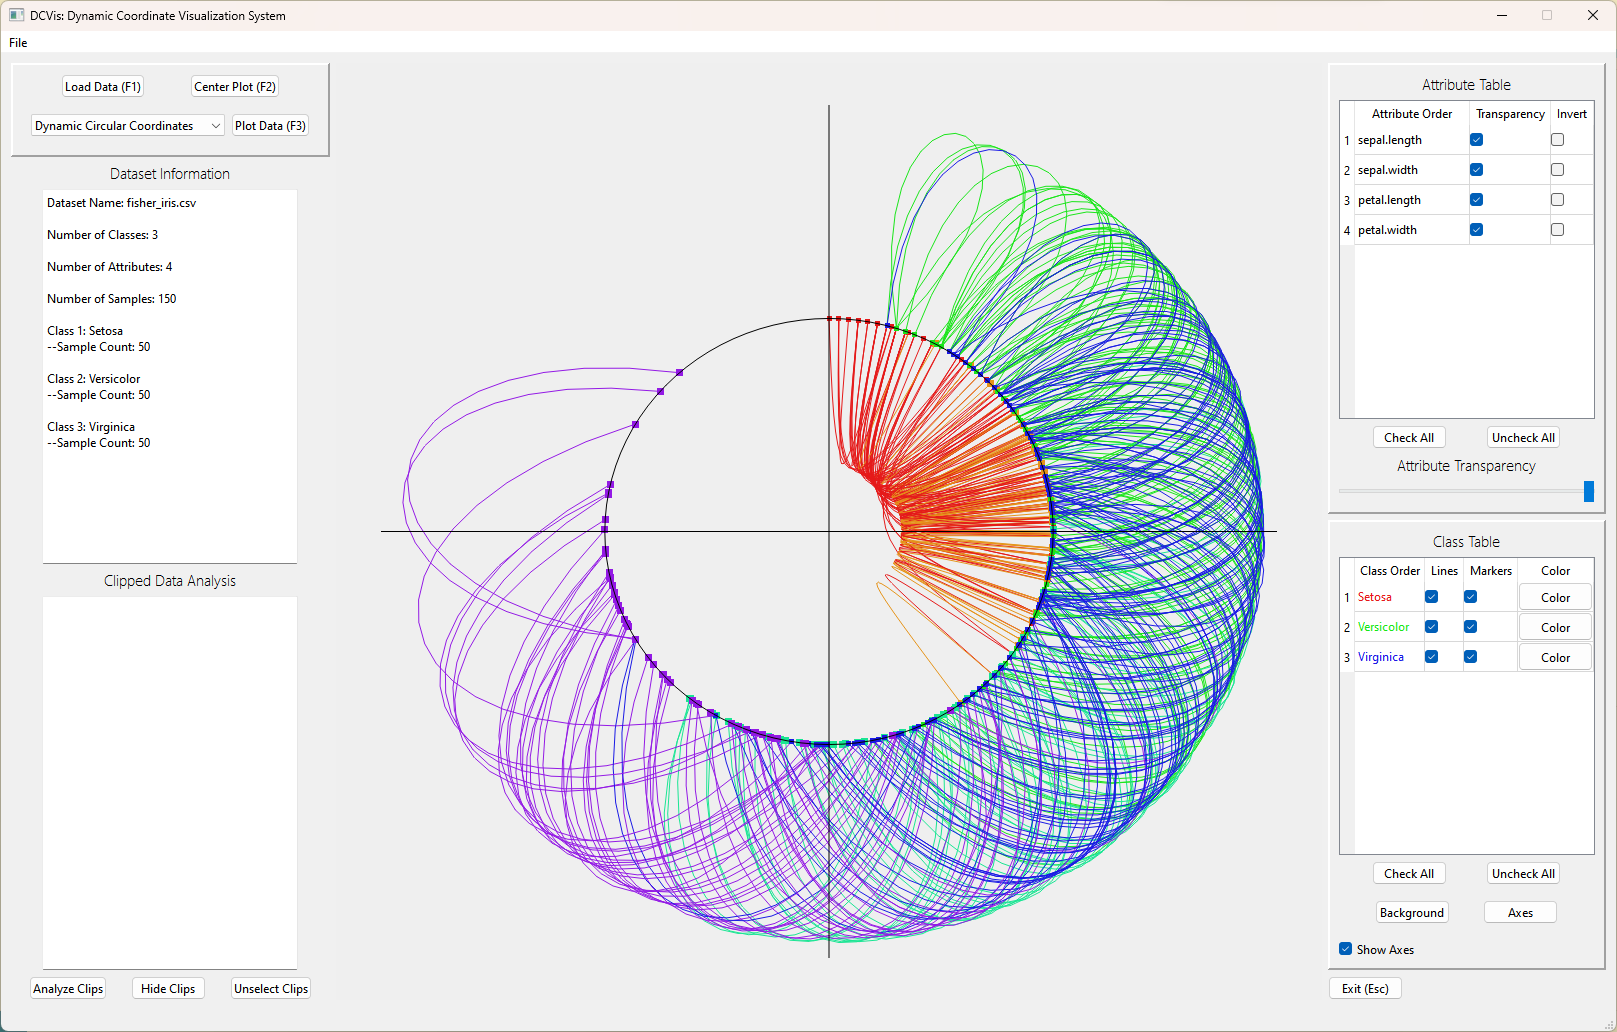
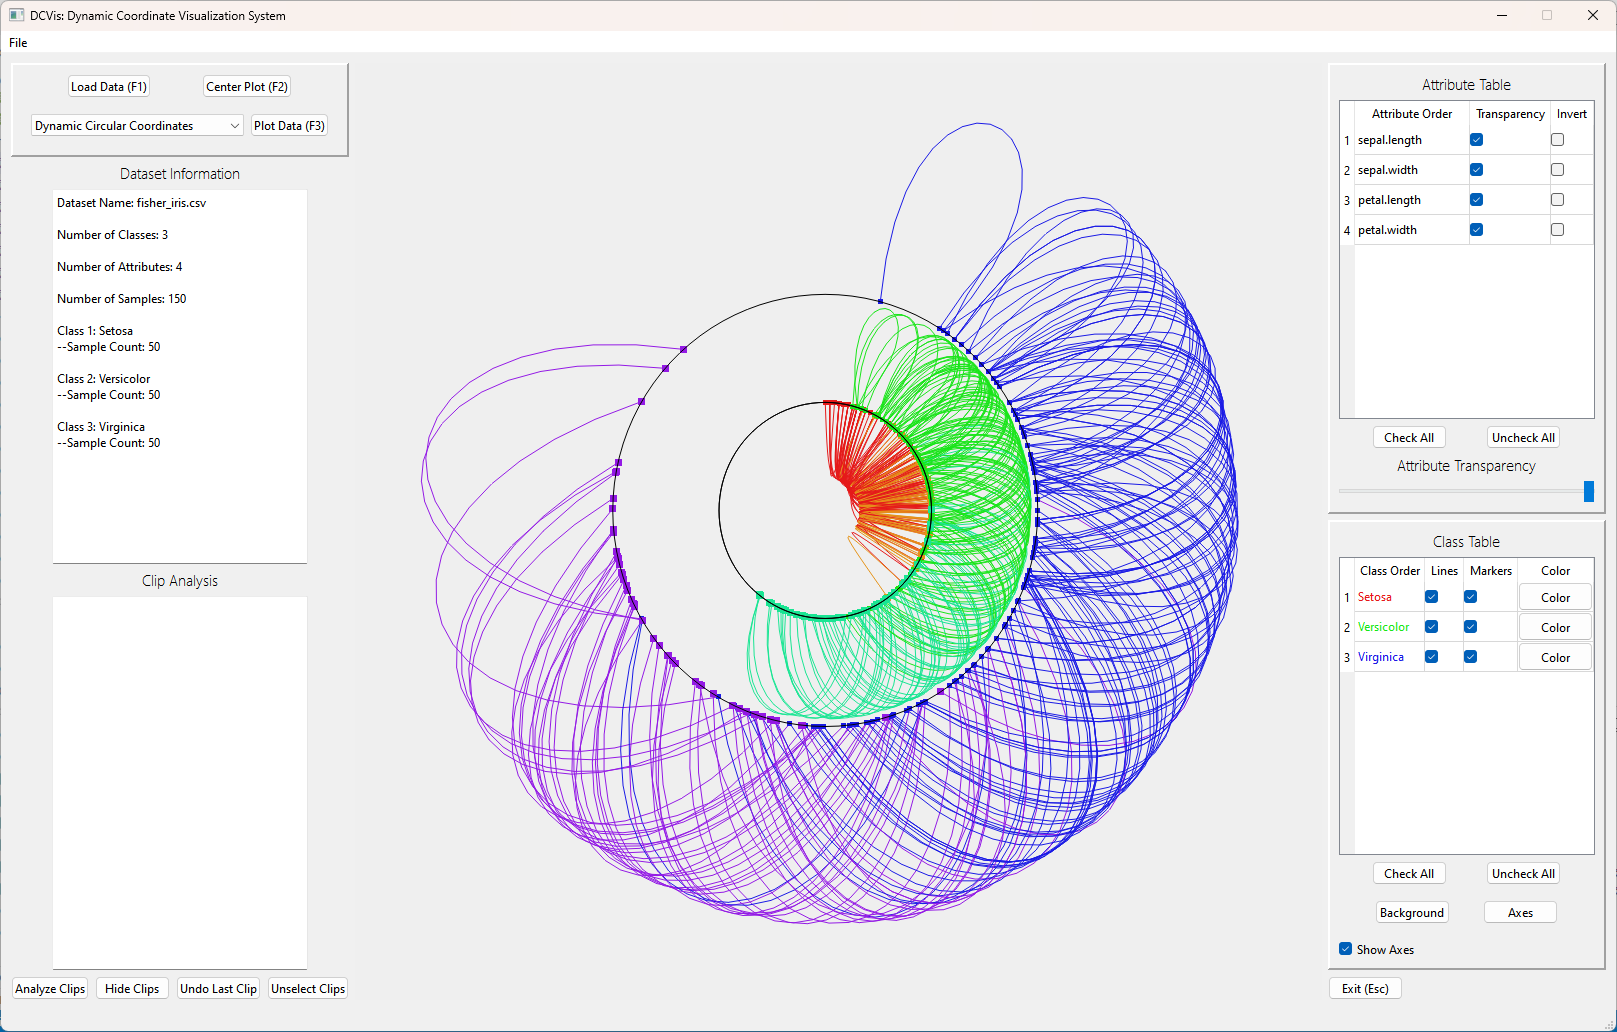
multi-axes for CC

diff --git a/PLOT.py b/PLOT.py
@@ -14,25 +14,31 @@ from COLORS import getColors, shift_hue
 import GCA
 import CLIPPING
 
-def calculate_cubic_bezier_control_points(start, end, radius, coef, attribute_count, is_inner):
+def calculate_cubic_bezier_control_points(start, end, radius, coef, attribute_count, is_inner, class_index):
     # Calculate midpoint between start and end points
     midX, midY = (start[0] + end[0]) / 2, (start[1] + end[1]) / 2
-    
-    if is_inner: # first class always inside axis
+
+    # Adjust the radius factor based on class index
+    if class_index < 2:
+        radius_factor = 1
+    else:
+        radius_factor = class_index
+
+    if is_inner:  # first class always inside axis
         factor = 0.1 * coef / 100
         distance = np.sqrt(midX**2 + midY**2)
         # Calculate scaled control points
-        scale = factor * radius / distance
+        scale = factor * radius * radius_factor / distance
 
         control1 = (midX * scale, midY * scale)
         control2 = (midX * scale, midY * scale)
 
         return control1, control2
-    
+
     factor = coef / 100 + 1
     
     # Calculate the new radius for control points
-    new_radius = radius * factor * 1.2
+    new_radius = radius * factor * 1.2 * radius_factor
     
     # Calculate the angle from the circle's center to the midpoint
     angle = np.arctan2(midY, midX)
@@ -99,7 +105,7 @@ def draw_curves(data, line_vao, marker_vao, radius):
                     end = data.positions[class_index][j + h]
                     coef = 100  # Adjust this to control the curvature
 
-                    control1, control2 = calculate_cubic_bezier_control_points(start, end, radius, coef, data.attribute_count, is_inner)
+                    control1, control2 = calculate_cubic_bezier_control_points(start, end, radius, coef, data.attribute_count, is_inner, class_index)
                     
                     draw_cubic_bezier_curve(start, control1, control2, end)
                 datapoint_count += 1
@@ -165,7 +171,7 @@ def draw_highlighted_curves(dataset, line_vao, marker_vao, radius):
                         end = dataset.positions[class_index][j + h]
                         coef = 100  # Adjust to control curvature
 
-                        control1, control2 = calculate_cubic_bezier_control_points(start, end, radius, coef, dataset.attribute_count, is_inner)
+                        control1, control2 = calculate_cubic_bezier_control_points(start, end, radius, coef, dataset.attribute_count, is_inner, class_index)
                         draw_cubic_bezier_curve(start, control1, control2, end)
                 datapoint_count += 1
 
@@ -294,53 +300,46 @@ def draw_highlighted_nd_points(dataset, marker_vao, class_vao):
 
     glLineWidth(1)
 
-# draw axes
 def draw_axes(dataset, axis_vao, color):
-    # positions of the class
     glBindVertexArray(axis_vao)
-    # colors
     glColor4f(*color)
     
-    if dataset.plot_type not in ['SCC', 'DCC']: # draw a line axis
+    if dataset.plot_type not in ['SCC', 'DCC']:  # draw a line axis
         for j in range(0, dataset.axis_count * 2, 2):
             glDrawArrays(GL_LINES, j, dataset.vertex_count)
-            
-    else: # draw a circle axis
-        circumference = dataset.attribute_count
-        diameter = circumference / np.pi
-        radius = diameter / 2
-        
+    else:  # draw a circle axis
         lineSeg = 100
-        # draw axis
-        glBegin(GL_LINE_LOOP)
-        for i in range(lineSeg + 1):
-            glVertex2f(radius * np.cos(i * 2 * np.pi / lineSeg), radius * np.sin(i * 2 * np.pi / lineSeg))
-        glEnd()
-        
-        if dataset.plot_type == 'SCC':
-            # calculate angle between each tick mark
-            angle_between_ticks = 2 * np.pi / dataset.attribute_count
+        angle_between_ticks = 2 * np.pi / dataset.attribute_count
 
-            # draw tick marks
-            tick_length = radius * 2
-            for i in range(dataset.attribute_count):
-                # Adjusting the angle to start from the 12 o'clock position
-                angle_for_tick = i * angle_between_ticks - np.pi/2
-                # compute start and end position of the tick mark
-                inner_x = (radius - tick_length/2) * np.cos(angle_for_tick)
-                inner_y = (radius - tick_length/2) * np.sin(angle_for_tick)
-                outer_x = (radius + tick_length/2) * np.cos(angle_for_tick)
-                outer_y = (radius + tick_length/2) * np.sin(angle_for_tick)
-                
-                # draw tick mark
-                glBegin(GL_LINES)
-                glVertex2f(inner_x, inner_y)
-                glVertex2f(outer_x, outer_y)
-                glEnd()
+        for class_index in range(dataset.class_count):
+            # Adjust the radius based on class index
+            if class_index < 2:
+                radius_factor = 1
+            else:
+                radius_factor = class_index
+            radius = (dataset.attribute_count / np.pi) / 2 * radius_factor
 
-        glBindVertexArray(0)
-        
-    # unbind
+            # Draw axis circle
+            glBegin(GL_LINE_LOOP)
+            for i in range(lineSeg + 1):
+                glVertex2f(radius * np.cos(i * 2 * np.pi / lineSeg), radius * np.sin(i * 2 * np.pi / lineSeg))
+            glEnd()
+
+            if dataset.plot_type == 'SCC':
+                # Draw tick marks
+                tick_length = radius * 0.05  # Adjust the tick length as needed
+                for i in range(dataset.attribute_count):
+                    angle_for_tick = i * angle_between_ticks - np.pi / 2
+                    inner_x = (radius - tick_length / 2) * np.cos(angle_for_tick)
+                    inner_y = (radius - tick_length / 2) * np.sin(angle_for_tick)
+                    outer_x = (radius + tick_length / 2) * np.cos(angle_for_tick)
+                    outer_y = (radius + tick_length / 2) * np.sin(angle_for_tick)
+
+                    glBegin(GL_LINES)
+                    glVertex2f(inner_x, inner_y)
+                    glVertex2f(outer_x, outer_y)
+                    glEnd()
+
     glBindVertexArray(0)
 
 # draw box for box clipping

diff --git a/DCC.py b/DCC.py
@@ -1,12 +1,9 @@
 import numpy as np
 from sklearn.preprocessing import MinMaxScaler
 
-
 class DCC:
     def __init__(self, dataset):
-        circumference = dataset.attribute_count
-        diameter = circumference / np.pi
-        radius = diameter / 2
+        basic_radius = (dataset.attribute_count / np.pi) / 2
 
         dataset.minmax_arc_lengths = []
 
@@ -27,67 +24,48 @@ class DCC:
             columnCoef = coefArr[index]
             working_df[col] = columnCoef * working_df[col]
 
-        # Changed start from -1 to 0 cause normalization is [0,1]
         section_array = np.linspace(start=0, stop=1, num=dataset.vertex_count)
 
         for class_index, class_name in enumerate(dataset.class_names):
-            #start = time.time()
+            if class_index < 2:
+                radius_factor = 1
+            else:
+                radius_factor = class_index
+            radius = basic_radius * radius_factor
+
             df_name = working_df[working_df['class'] == class_name]
             df_name = df_name.drop(columns='class', axis=1)
 
-            # Create the x_coord[]
             x_coord = np.tile(section_array, reps=len(df_name.index))
-
-            # Y coord is the normalization and also the arc length
             y_coord = df_name.to_numpy().ravel()
 
-            # overlapping end
             MinE = dataset.attribute_count
             MaxE = 0
 
-            # Keep Track of Arc Length
             arc_length = 0
             arc_rule = 0
 
-            # Get length 
             attribute_length = dataset.attribute_count * dataset.count_per_class[class_index]
-            # For Loop to change x values
             for i in range(attribute_length):
                 if arc_rule >= dataset.attribute_count:
-                    # reset arc_length based on amount of attributes
                     arc_length = 0
                     arc_rule = 0
 
                 arc_length += y_coord[i]
 
-                # add attributes to compare overlapping arc length
-                if arc_length > dataset.attribute_count - 1:
-                    dataset.all_arc_lengths.append(arc_length)
-                    # Get min Max arc length of each class
-                    if arc_length > MaxE:
-                        MaxE = arc_length
-                    if arc_length < MinE:
-                        MinE = arc_length
-
-                # Calculate the center angle in degrees
-                center_angle = arc_length * 360 / (2 * np.pi * radius)
-                # Convert the center angle to radians
+                center_angle = arc_length * 360 / (2 * np.pi * radius) * radius_factor
                 center_angle = np.pi * center_angle / 180
 
                 x_coord[i] = radius * np.sin(center_angle)
                 y_coord[i] = radius * np.cos(center_angle)
 
                 arc_rule += 1
-                #arc_length = arc_rule
 
             dataset.minmax_arc_lengths.append(MinE)
             dataset.minmax_arc_lengths.append(MaxE)
 
             pos_array = np.column_stack((x_coord, y_coord))
             dataset.positions.append(pos_array)
-
-            # end = time.time()
-            # print(end-start)
 
         dataset.axis_count = 0
 

diff --git a/SCC.py b/SCC.py
@@ -1,8 +1,15 @@
 import numpy as np
 import DATASET
 
-def compute_coordinates(data, df):
-    radius = data.attribute_count / (2 * np.pi)
+def compute_coordinates(data, df, class_index):
+    # Adjust the radius based on class index
+    if class_index < 2:
+        # First two classes share the first axis
+        radius_factor = 1
+    else:
+        # Subsequent classes each get their own axis
+        radius_factor = class_index
+    radius = (data.attribute_count / (2 * np.pi)) * radius_factor
     section_array = np.linspace(0, 1, data.attribute_count)
     x_coord = np.tile(section_array, reps=len(df.index))
     y_coord = df.to_numpy().ravel()
@@ -17,11 +24,12 @@ def compute_coordinates(data, df):
             arc_rule = 0
 
         if data.attribute_inversions[arc_rule]:
-            arc_length += (1 - y_coord[i])  # Invert the range
+            arc_length += (1 - y_coord[i])
         else:
             arc_length += y_coord[i]
-            
-        center_angle = arc_length * 360 / (2 * np.pi * radius)
+        
+        # Apply the radius factor to the angle calculation
+        center_angle = arc_length * 360 / (2 * np.pi * radius) * radius_factor
         center_angle = np.pi * center_angle / 180
 
         x_coord[i] = radius * np.sin(center_angle)
@@ -32,14 +40,13 @@ def compute_coordinates(data, df):
 
     return np.column_stack((x_coord, y_coord))
 
-
 class SCC:
     def __init__(self, data: DATASET.Dataset):
         data.vertex_count = data.attribute_count
         data.dataframe = data.normalize_data(range=(0, 1))
 
-        # Compute coordinates for each class and store in data.positions
-        data.positions = [compute_coordinates(data, data.dataframe[data.dataframe['class'] == class_name].drop('class', axis=1))
-                          for class_name in data.class_names]
+        # Compute coordinates for each class with adjusted radius
+        data.positions = [compute_coordinates(data, data.dataframe[data.dataframe['class'] == class_name].drop('class', axis=1), class_index)
+                          for class_index, class_name in enumerate(data.class_names)]
 
         data.axis_count = 0
